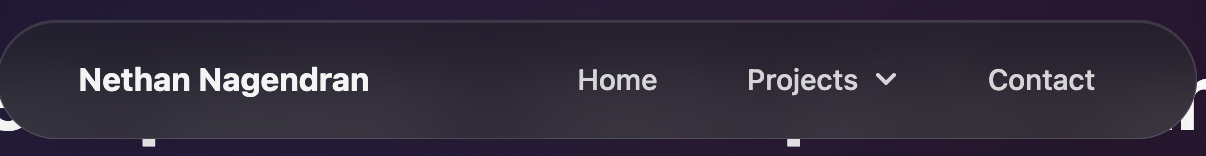
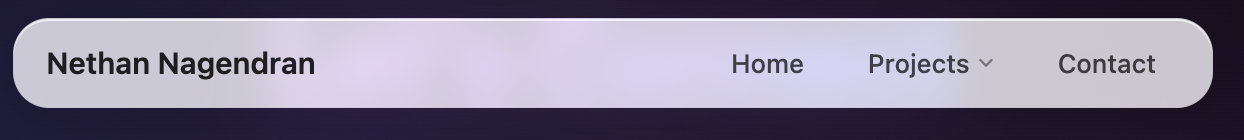
updated dropdown

diff --git a/src/CSS/Global/Nav.css b/src/CSS/Global/Nav.css
@@ -1,4 +1,4 @@
-/* Apple iOS 26 Translucent Material Navbar */
+/* Apple iOS Translucent Material Navbar */
 .custom-navbar {
   position: fixed;
   top: 20px;
@@ -9,19 +9,21 @@
   min-width: 600px;
   max-width: 90vw;
   
-  /* Apple's translucent material - dark vibrancy */
-  background: rgba(60, 60, 67, 0.52);
-  backdrop-filter: blur(40px) saturate(180%);
-  -webkit-backdrop-filter: blur(40px) saturate(180%);
+  /* iOS Translucent Glass Material */
+  background: rgba(255, 255, 255, 0.02);
+  backdrop-filter: blur(40px) saturate(180%) brightness(1.1);
+  -webkit-backdrop-filter: blur(40px) saturate(180%) brightness(1.1);
   
-  border: 0.5px solid rgba(255, 255, 255, 0.1);
+  border: 1px solid rgba(255, 255, 255, 0.1);
   border-radius: 20px;
   padding: 8px 20px;
   
-  /* No shadows - pure translucent material */
-  box-shadow: none;
+  /* Subtle glass shadow */
+  box-shadow: 
+    0 8px 32px rgba(0, 0, 0, 0.12),
+    inset 0 1px 0 rgba(255, 255, 255, 0.15);
   
-  transition: all 0.3s cubic-bezier(0.25, 0.46, 0.45, 0.94);
+  transition: all 0.3s cubic-bezier(0.4, 0, 0.2, 1);
 }
 
 .nav-container {
@@ -29,21 +31,23 @@
   align-items: center;
   justify-content: space-between;
   width: 100%;
+  height: 32px;
 }
 
 .nav-brand {
   font-family: -apple-system, BlinkMacSystemFont, 'SF Pro Display', sans-serif;
   font-weight: 600;
   font-size: 15px;
-  color: rgba(255, 255, 255, 0.92);
+  color: rgba(255, 255, 255, 0.95);
   text-decoration: none;
   white-space: nowrap;
+  line-height: 1;
 }
 
 .nav-menu {
   display: flex;
   align-items: center;
-  gap: 20px;
+  gap: 8px;
 }
 
 .nav-item {
@@ -52,15 +56,16 @@
   font-size: 13px;
   color: rgba(255, 255, 255, 0.8);
   text-decoration: none;
-  padding: 6px 10px;
+  padding: 6px 12px;
   border-radius: 10px;
-  transition: all 0.2s cubic-bezier(0.25, 0.46, 0.45, 0.94);
+  transition: all 0.15s cubic-bezier(0.4, 0, 0.2, 1);
   background: none;
   border: none;
   cursor: pointer;
   white-space: nowrap;
   display: flex;
   align-items: center;
+  line-height: 1;
 }
 
 .nav-item:hover {
@@ -80,8 +85,9 @@
 }
 
 .chevron-icon {
-  font-size: 9px;
-  transition: transform 0.2s cubic-bezier(0.25, 0.46, 0.45, 0.94);
+  font-size: 8px;
+  transition: transform 0.2s cubic-bezier(0.4, 0, 0.2, 1);
+  opacity: 0.6;
 }
 
 .chevron-icon.rotated {
@@ -92,24 +98,26 @@
   position: absolute;
   top: 100%;
   left: 0;
-  margin-top: 6px;
+  margin-top: 4px;
   min-width: 160px;
   
-  /* Same translucent material as navbar */
-  background: rgba(60, 60, 67, 0.52);
-  backdrop-filter: blur(40px) saturate(180%);
-  -webkit-backdrop-filter: blur(40px) saturate(180%);
+  /* Solid blurred background - no content showing through */
+  background: rgba(255, 255, 255, 0.95);
+  backdrop-filter: blur(40px) saturate(180%) brightness(1.1);
+  -webkit-backdrop-filter: blur(40px) saturate(180%) brightness(1.1);
   
-  border: 0.5px solid rgba(255, 255, 255, 0.1);
-  border-radius: 14px;
-  padding: 6px;
+  border: 1px solid rgba(255, 255, 255, 0.1);
+  border-radius: 12px;
+  padding: 4px;
   
-  box-shadow: none;
+  box-shadow: 
+    0 8px 32px rgba(0, 0, 0, 0.12),
+    inset 0 1px 0 rgba(255, 255, 255, 0.15);
   
   opacity: 0;
   visibility: hidden;
-  transform: translateY(-4px);
-  transition: all 0.2s cubic-bezier(0.25, 0.46, 0.45, 0.94);
+  transform: translateY(-2px);
+  transition: all 0.15s cubic-bezier(0.4, 0, 0.2, 1);
   z-index: 1001;
 }
 
@@ -124,29 +132,30 @@
   font-family: -apple-system, BlinkMacSystemFont, 'SF Pro Text', sans-serif;
   font-weight: 500;
   font-size: 13px;
-  color: rgba(255, 255, 255, 0.8);
+  color: rgba(0, 0, 0, 0.8);
   text-decoration: none;
-  padding: 8px 10px;
-  border-radius: 8px;
-  transition: all 0.2s cubic-bezier(0.25, 0.46, 0.45, 0.94);
+  padding: 6px 10px;
+  border-radius: 6px;
+  transition: all 0.15s cubic-bezier(0.4, 0, 0.2, 1);
+  line-height: 1;
 }
 
 .dropdown-link:hover {
-  background: rgba(255, 255, 255, 0.08);
-  color: rgba(255, 255, 255, 0.95);
+  background: rgba(0, 0, 0, 0.06);
+  color: rgba(0, 0, 0, 0.95);
 }
 
 /* Mobile Toggle */
 .mobile-toggle {
   display: none;
   background: none;
-  border: 0.5px solid rgba(255, 255, 255, 0.1);
+  border: 0.5px solid rgba(0, 0, 0, 0.08);
   border-radius: 6px;
   padding: 6px;
   color: rgba(255, 255, 255, 0.8);
   cursor: pointer;
-  font-size: 14px;
-  transition: all 0.2s cubic-bezier(0.25, 0.46, 0.45, 0.94);
+  font-size: 12px;
+  transition: all 0.15s cubic-bezier(0.4, 0, 0.2, 1);
 }
 
 .mobile-toggle:hover {
@@ -161,23 +170,25 @@
   top: 100%;
   left: 0;
   right: 0;
-  margin-top: 6px;
+  margin-top: 4px;
   
-  /* Same translucent material */
-  background: rgba(60, 60, 67, 0.52);
-  backdrop-filter: blur(40px) saturate(180%);
-  -webkit-backdrop-filter: blur(40px) saturate(180%);
+  /* Solid blurred background - no content showing through */
+  background: rgba(255, 255, 255, 0.95);
+  backdrop-filter: blur(40px) saturate(180%) brightness(1.1);
+  -webkit-backdrop-filter: blur(40px) saturate(180%) brightness(1.1);
   
-  border: 0.5px solid rgba(255, 255, 255, 0.1);
-  border-radius: 14px;
-  padding: 12px;
+  border: 1px solid rgba(255, 255, 255, 0.1);
+  border-radius: 12px;
+  padding: 8px;
   
-  box-shadow: none;
+  box-shadow: 
+    0 8px 32px rgba(0, 0, 0, 0.12),
+    inset 0 1px 0 rgba(255, 255, 255, 0.15);
   
   opacity: 0;
   visibility: hidden;
-  transform: translateY(-4px);
-  transition: all 0.2s cubic-bezier(0.25, 0.46, 0.45, 0.94);
+  transform: translateY(-2px);
+  transition: all 0.15s cubic-bezier(0.4, 0, 0.2, 1);
 }
 
 .mobile-menu.open {
@@ -194,9 +205,9 @@
   font-size: 13px;
   color: rgba(255, 255, 255, 0.8);
   text-decoration: none;
-  padding: 10px 12px;
-  border-radius: 8px;
-  transition: all 0.2s cubic-bezier(0.25, 0.46, 0.45, 0.94);
+  padding: 8px 10px;
+  border-radius: 6px;
+  transition: all 0.15s cubic-bezier(0.4, 0, 0.2, 1);
   background: none;
   border: none;
   cursor: pointer;
@@ -205,6 +216,7 @@
   display: flex;
   align-items: center;
   justify-content: space-between;
+  line-height: 1;
 }
 
 .mobile-item:hover {
@@ -217,12 +229,12 @@
 }
 
 .mobile-dropdown-content {
-  margin-left: 12px;
-  margin-top: 6px;
+  margin-left: 10px;
+  margin-top: 4px;
   opacity: 0;
   max-height: 0;
   overflow: hidden;
-  transition: all 0.2s cubic-bezier(0.25, 0.46, 0.45, 0.94);
+  transition: all 0.15s cubic-bezier(0.4, 0, 0.2, 1);
 }
 
 .mobile-dropdown-content.show {
@@ -237,14 +249,15 @@
   font-size: 12px;
   color: rgba(255, 255, 255, 0.7);
   text-decoration: none;
-  padding: 6px 10px;
-  border-radius: 6px;
-  transition: all 0.2s cubic-bezier(0.25, 0.46, 0.45, 0.94);
+  padding: 6px 8px;
+  border-radius: 4px;
+  transition: all 0.15s cubic-bezier(0.4, 0, 0.2, 1);
   margin: 2px 0;
+  line-height: 1;
 }
 
 .mobile-dropdown-link:hover {
-  background: rgba(255, 255, 255, 0.06);
+  background: rgba(255, 255, 255, 0.05);
   color: rgba(255, 255, 255, 0.9);
 }
 
@@ -258,8 +271,12 @@
     width: auto;
     max-width: none;
     min-width: 0;
-    border-radius: 16px;
-    padding: 12px 16px;
+    border-radius: 14px;
+    padding: 8px 12px;
+  }
+  
+  .nav-container {
+    height: 28px;
   }
   
   .nav-menu {
@@ -278,8 +295,12 @@
     top: 12px;
     left: 12px;
     right: 12px;
-    border-radius: 14px;
-    padding: 10px 14px;
+    border-radius: 12px;
+    padding: 6px 10px;
+  }
+  
+  .nav-container {
+    height: 24px;
   }
   
   .nav-brand {
@@ -287,7 +308,7 @@
   }
   
   .mobile-toggle {
-    padding: 5px;
-    font-size: 13px;
+    padding: 4px;
+    font-size: 11px;
   }
 }

diff --git a/src/components/ScrollNavbar.js b/src/components/ScrollNavbar.js
@@ -5,7 +5,7 @@ const ScrollNavbar = () => {
     let scrollTimer = null;
     
     const handleScroll = () => {
-      const navbar = document.querySelector('.navbar');
+      const navbar = document.querySelector('.custom-navbar');
       if (!navbar) return;
 
       const scrollY = window.scrollY;
